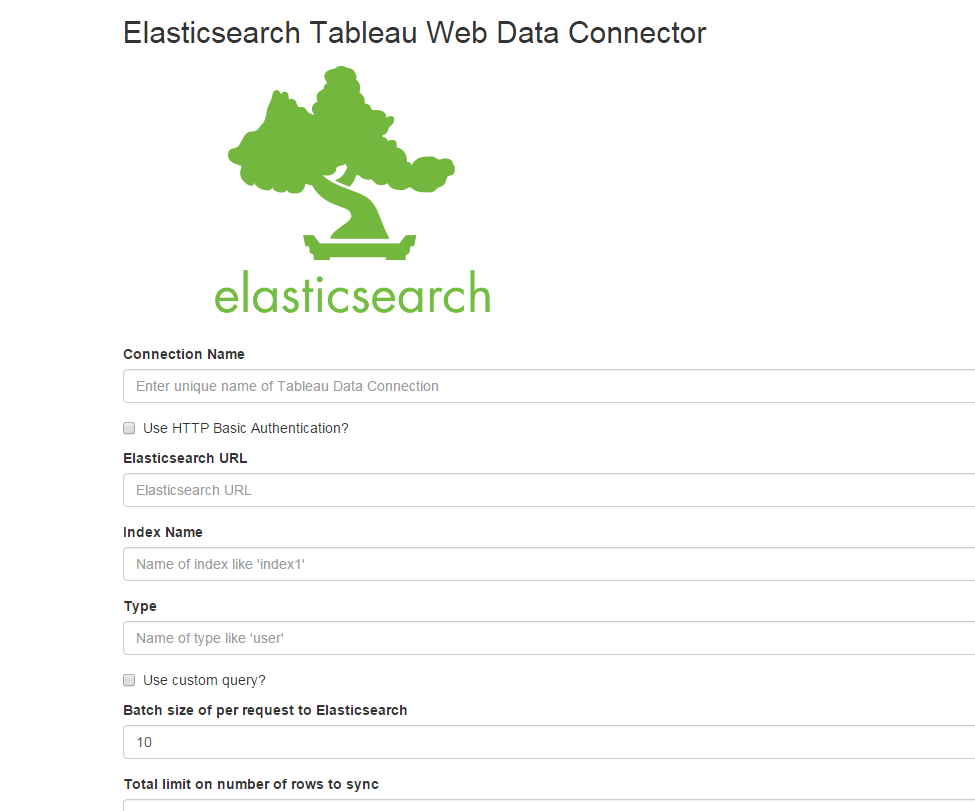
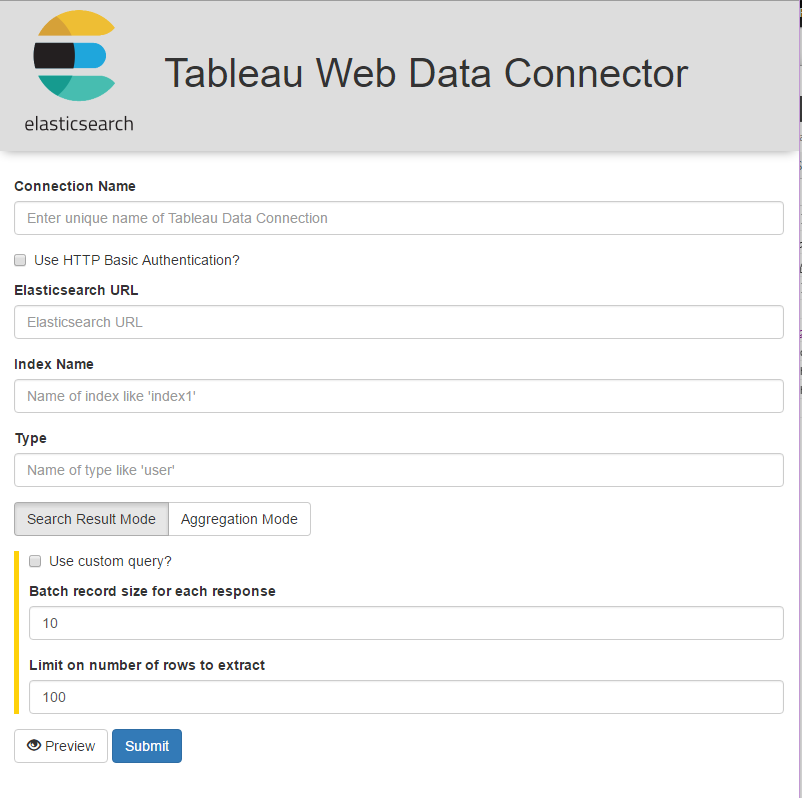
Update documentation

Changed region(s): [[0.0, 0.0, 1.0, 1.0]]

diff --git a/README.md b/README.md
@@ -172,6 +172,12 @@ into the `Web Connector URL` input field in the SDK's form.
 From there you should see this connector's UI:
 ![](https://github.com/mradamlacey/elasticsearch-tableau-connector/blob/master/resources/connector-form-example.png)
 
+Connector UI when in Aggregation mode:
+![](https://github.com/mradamlacey/elasticsearch-tableau-connector/blob/master/resources/connector-form-aggregation-example.png)
+
+Connector UI after fetching preview data:
+![](https://github.com/mradamlacey/elasticsearch-tableau-connector/blob/master/resources/connector-form-preview-example.png)
+
 ## Using the Connector UI
 
 The Elasticsearch connector UI includes the following fields:
@@ -185,14 +191,80 @@ The Elasticsearch connector UI includes the following fields:
 | Password | String | If 'Use HTTP Basic Auth' is checked, this is the password |
 | Index name | String | \[Required\] Name of the index in the Elasticsearch cluster |
 | Type | String | \[Required\] Name of the type in the Elasticsearch cluster to query |
-| Use custom query? | Boolean | If true, indicates if the extract should use a custom query against Elasticsearch, if false extract will be a 'match all' |
-| Query | String | If `Use custom query?` is true, this will be the JSON request payload sent to Elasticsearch.  `from`, and `size` will be overwritten if supplied. Refer to [Elasticsearch Query DSL](https://www.elastic.co/guide/en/elasticsearch/reference/current/query-dsl.html) for a reference on writing a query |
+| Result Mode | Option | Option to retrieve search results from Elasticsearch (Search Result Mode) or from a query using aggregation (Aggregation Mode) |
+| Use custom query? | Boolean | If true, indicates if the extract should use a custom query against Elasticsearch in search result mode, if false extract will be a 'match all' |
+| Query | String | If `Use custom query?` is true, this will be the JSON request payload sent to Elasticsearch in search result mode.  `from`, and `size` will be overwritten if supplied. Refer to [Elasticsearch Query DSL](https://www.elastic.co/guide/en/elasticsearch/reference/current/query-dsl.html) for a reference on writing a query |
 | Batch size of per request to Elasticsearch | Integer | Number of rows to retrieve at once, defaults to 10, should probably be 1000+ |
 | Total limit on numnber of rows to sync | Integer | Limit of rows to include in extract, defaults to 100, but generally should be left blank to indicate that all matching rows should be included |
+| Use custom query? (aggregation mode) | Boolean | If true, indicates the data extract should use a custom query that includes an aggregation request |
+| Custom query | String | JSON payload sent in the request for Elasticsearch, must include `aggregations` and `aggs` for Terms, Range, Date Range or Date Histogram |
+| Metrics | Metric | One or more metrics to calculate for the aggregation results.  Valid options are Count, Min, Max, Sum, Average, Stats, and Extended Stats. Refer to 'Metrics' section |
+| Buckets | Bucket | Bucket to aggregate results to and calculate metrics for, or multiple levels of child buckets.  See buckets for more information |
 
-The 'Submit' button will execute the extract and report the total number of rows and the executing time when completed.
+### Metrics
+
+Supported metrics:
+
+ - Count
+ - [Min](https://www.elastic.co/guide/en/elasticsearch/reference/current/search-aggregations-metrics-min-aggregation.html)
+ - [Max](https://www.elastic.co/guide/en/elasticsearch/reference/current/search-aggregations-metrics-max-aggregation.html)
+ - [Sum](https://www.elastic.co/guide/en/elasticsearch/reference/current/search-aggregations-metrics-sum-aggregation.html)
+ - [Average](https://www.elastic.co/guide/en/elasticsearch/reference/current/search-aggregations-metrics-avg-aggregation.html)
+ - [Stats](https://www.elastic.co/guide/en/elasticsearch/reference/current/search-aggregations-metrics-stats-aggregation.html)
+ - [Extended Stats](https://www.elastic.co/guide/en/elasticsearch/reference/current/search-aggregations-metrics-extendedstats-aggregation.html)
+
+### Buckets
+
+### Preview
+
+The connector supports requesting data for Elasticsearch from the UI to preview the data that will be created in the data extract in Tableau.  The preview button will send this
+request to Elasticsearch based on the current configuration and populate a table at the bottom of the view.  This feature is useful for debugging 
+to make sure any custom queries and other configuration returns a valid response.
+
+### Submit
+
+The submit button will save the configuration for the data extract with Tableau and continue the process of creating the extract.
 
 ## Handling Elasticsearch Data Types
+
+### `object`
+
+For types that include mapping with objects (fields with their set of properties), a concatenated field name will be created.  For the following mapping:
+```json
+{
+    person: {
+        properties: {
+            firstName: {
+                type: string
+            },
+            lastName: {
+                type: string
+            },
+            address: {
+                properties: {
+                    street: {
+                        type: string
+                    },
+                    city: {
+                        type: string
+                    },
+                    zip: {
+                        type: string
+                    }
+                }
+            }
+        }
+    }
+}
+``` 
+
+Will create the following fields:
+
+ - person.firstName
+ - person.lastName
+ - person.address.street
+ - person.address.city
+ - person.address.zip
 
 ### `geo_point`
 
